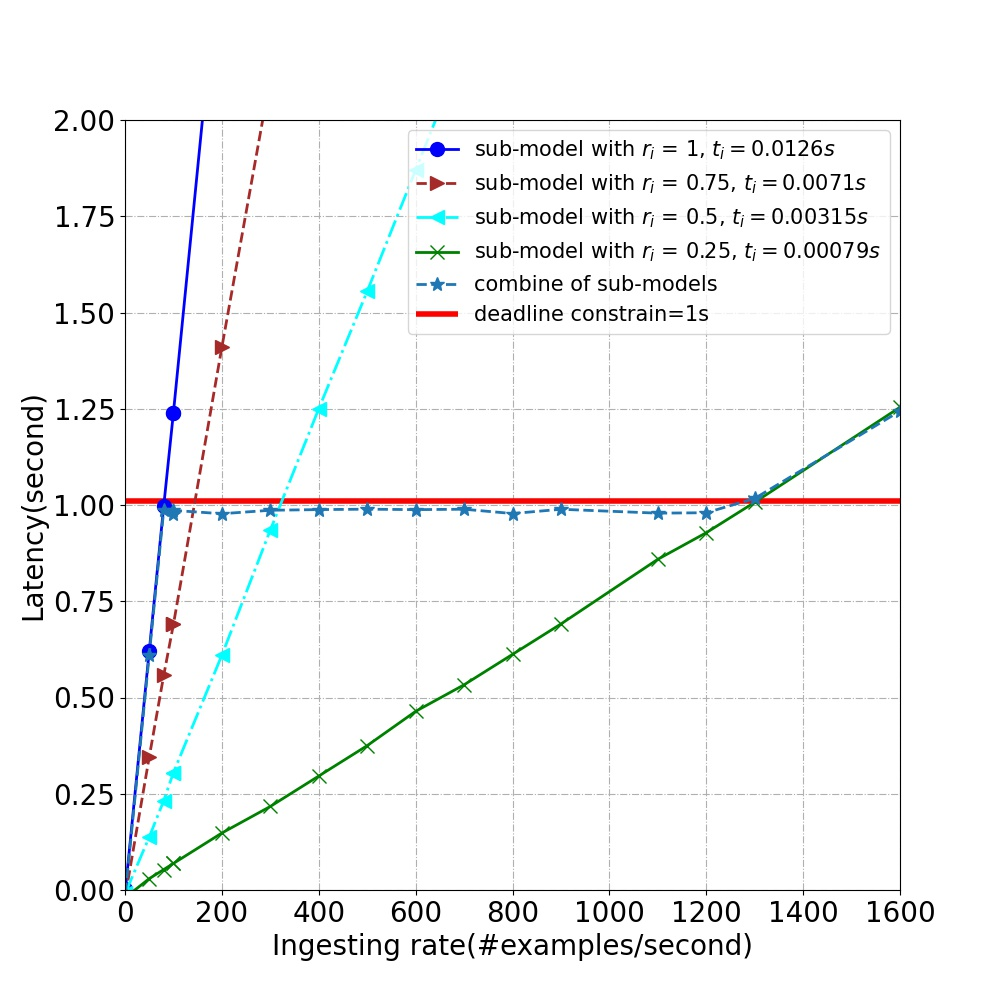
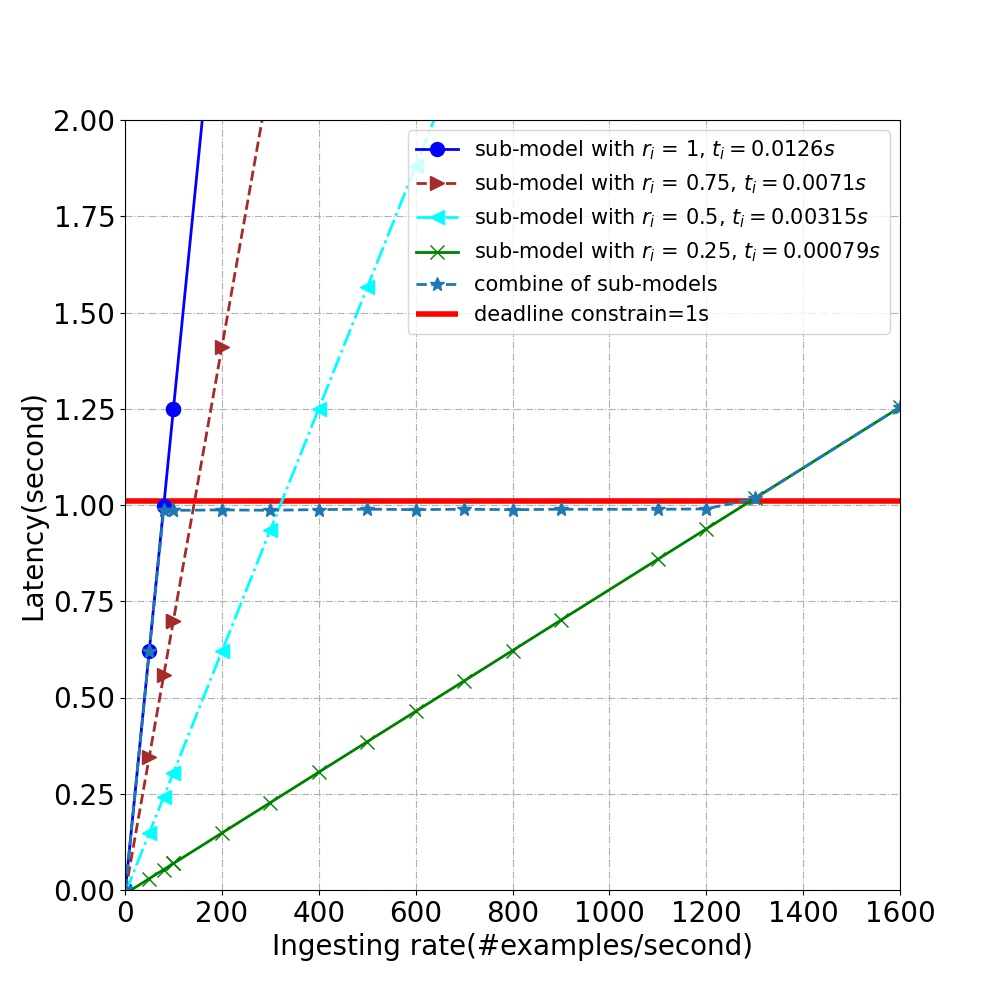
update col num

diff --git a/experiments/Speed.py b/experiments/Speed.py
@@ -1,6 +1,10 @@
 
+
+
 import matplotlib.pyplot as plt
-import numpy
+from matplotlib.patches import Polygon
+import matplotlib.pyplot as plt
+import numpy as np
 
 
 def drawBasic(tlist, x, slicerate):
@@ -10,55 +14,82 @@ def drawBasic(tlist, x, slicerate):
      pots = []
 
      for k in range(len(tlist)):
-          interval0 = [1/tlist[k] for r in x]
-          y1 = interval0
+          interval0 = [i if (i < 1/tlist[k]) else 0 for i in x]
+          interval1 = [1 if (i > 1/tlist[k]) else 0 for i in x]
+          y1 = numpy.array(interval0) + (1/tlist[k]) * numpy.array(interval1)
           y.append(y1)
           label.append('sub-model with $r_i$ = ' + str(slicerate[k]) + ", $t_i=$" + str(tlist[k]) + "$s$")
-
-          tmp = []
-          for x_ in x:
-               if x_ < 1/tlist[k]:
-                    y_ = 1/tlist[k]
-               else:
-                    y_ =(1/tlist[k])*(1/tlist[k])/x_
-               tmp.append([x_, y_])
-          pots.append(tmp)
+          if k==0:
+               tmp = []
+               for x_ in x[k:]:
+                    if x_ < 1/tlist[k]:
+                         y_= x_
+                    else:
+                         y_ = 1/tlist[k]
+                    tmp.append([x_, y_])
+               pots.append(tmp)
+          if k==1:
+               tmp = []
+               for x_ in x[k:]:
+                    if x_ < 1/tlist[k]:
+                         y_= x_
+                    else:
+                         y_ = 1/tlist[k]
+                    tmp.append([x_, y_])
+               pots.append(tmp)
+          if k>1:
+               tmp = []
+               for x_ in x[k:]:
+                    if x_ < 1/tlist[k]:
+                         y_= x_
+                    else:
+                         y_ = 1/tlist[k]
+                    tmp.append([x_, y_])
+               pots.append(tmp)
 
      return y, label, pots
 
 
-# x_5s = [1, 50, 80, 100, 200, 300, 400, 540, 800, 910, 1020, 1282, 1342, 1352, 1362, 1372, 1382, 1392, 1402, 1412, 1422, 1442, 1472, 1502, 1512, 1522, 1532, 1542, 1552, 1572]
-x = [1, 50, 80, 100, 100, 200, 300, 400, 500, 600, 700, 800, 900, 1000, 1100, 1200, 1400, 1500, 1600, 1700, 1800, 1900, 2000, 2100, 2400, 2500, 2600, 2700, 2800, 3000, 3200, 3500, 3600, 3700, 3800, 3900, 4000, 4100, 4300, 4700, 5100, 6000]
-
-
+import numpy
+x = numpy.array([0, 1, 50, 80, 100, 200, 300, 400, 540, 800,  910, 1020, 1282, 1500])
+print(x)
 y, label, pots = drawBasic([0.0126, 0.0071, 0.00315, 0.00084], x, [1, 0.75, 0.5, 0.25])
-print(y)
 
-fig=plt.figure(figsize=(10,10))
+
+fig=plt.figure(figsize=(10, 10))
 ax=fig.add_subplot(111)
-ax.axis([0, 5500, 0, 1650])
+ax.axis([0, 1550, 0, 1400])
 
 line_sym = ["-", "--", "-.", "-"]
 pot_sym = ["o", ">", "<", "x"]
 colors = ['blue', 'brown', 'aqua', 'green']
-
 for i in range(len(y)):
-     ax.plot(x, y[i],line_sym[i], marker=pot_sym[i], ms=10, label=label[i], linewidth=2, color=colors[i])
+     ax.plot(x, y[i], line_sym[i], marker=pot_sym[i], ms=6, label=label[i], linewidth=2,  color=colors[i])
 
-y_sche = [79.36507936507937, 79.36507936507937, 79.36507936507937, 79.36507936507937, 79.36507936507937, 79.36507936507937, 79.36507936507935, 100.12515644555694, 125.14078338130396, 150.02625459455405, 175.07440662281468, 200.1350911865509, 225.2083176938668, 250.04688379071075, 275.1203651597574, 300.20639189442744, 350.103280467738, 375.03187770960534, 400.18108193957767, 425.1030874987185, 450.01462547532793, 475.1900760304122, 500.0950180534302, 525.2928507643011, 600.3031530923116, 625.1844294066749, 650.0552546966492, 675.3055757730373, 700.1697911743597, 750.3001200480192, 800.4462487836969, 875.442098259621, 900.265578345612, 925.0786316836931, 950.4300696064969, 975.2364948500011, 1000.0325010562843, 1025.4101640656263, 1075.5996468030926, 1175.346727284549, 1190.4761904761904, 1190.4761904761904]
-ax.plot(x, y_sche, "--", marker='*', ms=10, label="combine of sub-models", linewidth=2)
+ax.plot(x, y[len(y)-1], label="combination of sub-models", linewidth=2)
+
+
+
+for k in range(len(pots)):
+     ele = pots[k]
+     for i in range(len(ele)):
+          xc1, yc1 = ele[i]
+          ax.plot(xc1, yc1, line_sym[k], marker=pot_sym[k], ms=10, color=colors[k])
+
+
+# for j in range(len(pots)):
+#      xc1, yc1 = pots[j]
+#      ax.scatter(xc1, yc1, s=50, facecolors='none', edgecolors='r')
 
 
 plt.legend(fontsize=15)
 plt.xticks(fontsize=20)
 plt.yticks(fontsize=20)
 ax.set_xlabel('Ingesting rate(#examples/second)', fontsize=20)
-ax.set_ylabel('Images being processed/second', fontsize=20)
+ax.set_ylabel('Single model maximum capacity', fontsize=20)
 plt.grid(linestyle='-.')
-plt.savefig('./images_second.jpg')
+plt.savefig('./capacity.jpg')
 plt.show()
-# 每妙发送500条
-
 
 
 

diff --git a/experiments/throughput_plot.py b/experiments/throughput_plot.py
@@ -1,8 +1,16 @@
 
+
+
+
+
+
+
+
+
+
+
 import matplotlib.pyplot as plt
-from matplotlib.patches import Polygon
-import matplotlib.pyplot as plt
-import numpy as np
+import numpy
 
 
 def drawBasic(tlist, x, slicerate):
@@ -12,87 +20,51 @@ def drawBasic(tlist, x, slicerate):
      pots = []
 
      for k in range(len(tlist)):
-          interval0 = [i if (i < 1/tlist[k]) else 0 for i in x]
-          interval1 = [1 if (i > 1/tlist[k]) else 0 for i in x]
-          y1 = numpy.array(interval0) + (1/tlist[k]) * numpy.array(interval1)
+          interval0 = [1/tlist[k] for r in x]
+          y1 = interval0
           y.append(y1)
           label.append('sub-model with $r_i$ = ' + str(slicerate[k]) + ", $t_i=$" + str(tlist[k]) + "$s$")
-          if k==0:
-               tmp = []
-               for x_ in x[k:]:
-                    if x_ < 1/tlist[k]:
-                         y_= x_
-                    else:
-                         y_ = 1/tlist[k]
-                    tmp.append([x_, y_])
-               pots.append(tmp)
-          if k==1:
-               tmp = []
-               for x_ in x[k:]:
-                    if x_ < 1/tlist[k]:
-                         y_= x_
-                    else:
-                         y_ = 1/tlist[k]
-                    tmp.append([x_, y_])
-               pots.append(tmp)
-          if k>1:
-               tmp = []
-               for x_ in x[k:]:
-                    if x_ < 1/tlist[k]:
-                         y_= x_
-                    else:
-                         y_ = 1/tlist[k]
-                    tmp.append([x_, y_])
-               pots.append(tmp)
+
+          tmp = []
+          for x_ in x:
+               if x_ < 1/tlist[k]:
+                    y_ = 1/tlist[k]
+               else:
+                    y_ =(1/tlist[k])*(1/tlist[k])/x_
+               tmp.append([x_, y_])
+          pots.append(tmp)
 
      return y, label, pots
 
 
-import numpy
-x = numpy.array([0, 1, 50, 80, 100, 200, 300, 400, 540, 800,  910, 1020, 1282, 1500])
-print(x)
+# x_5s = [1, 50, 80, 100, 200, 300, 400, 540, 800, 910, 1020, 1282, 1342, 1352, 1362, 1372, 1382, 1392, 1402, 1412, 1422, 1442, 1472, 1502, 1512, 1522, 1532, 1542, 1552, 1572]
+x = [1, 50, 80, 100, 100, 200, 300, 400, 500, 600, 700, 800, 900, 1000, 1100, 1200, 1400, 1500, 1600, 1700, 1800, 1900, 2000, 2100, 2400, 2500, 2600, 2700, 2800, 3000, 3200, 3500, 3600, 3700, 3800, 3900, 4000, 4100, 4300, 4700, 5100, 6000]
+
+
 y, label, pots = drawBasic([0.0126, 0.0071, 0.00315, 0.00084], x, [1, 0.75, 0.5, 0.25])
+print(y)
 
-
-fig=plt.figure(figsize=(10, 10))
+fig=plt.figure(figsize=(10,10))
 ax=fig.add_subplot(111)
-ax.axis([0, 1550, 0, 1400])
+ax.axis([0, 5500, 0, 1650])
 
 line_sym = ["-", "--", "-.", "-"]
 pot_sym = ["o", ">", "<", "x"]
 colors = ['blue', 'brown', 'aqua', 'green']
+
 for i in range(len(y)):
-     ax.plot(x, y[i], line_sym[i], marker=pot_sym[i], ms=6, label=label[i], linewidth=2,  color=colors[i])
+     ax.plot(x, y[i],line_sym[i], marker=pot_sym[i], ms=10, label=label[i], linewidth=2, color=colors[i])
 
-ax.plot(x, y[len(y)-1], label="combine of sub-models", linewidth=2)
-
-
-
-for k in range(len(pots)):
-     ele = pots[k]
-     for i in range(len(ele)):
-          xc1, yc1 = ele[i]
-          ax.plot(xc1, yc1, line_sym[k], marker=pot_sym[k], ms=10, color=colors[k])
-
-
-# for j in range(len(pots)):
-#      xc1, yc1 = pots[j]
-#      ax.scatter(xc1, yc1, s=50, facecolors='none', edgecolors='r')
+y_sche = [79.36507936507937, 79.36507936507937, 79.36507936507937, 79.36507936507937, 79.36507936507937, 79.36507936507937, 79.36507936507935, 100.12515644555694, 125.14078338130396, 150.02625459455405, 175.07440662281468, 200.1350911865509, 225.2083176938668, 250.04688379071075, 275.1203651597574, 300.20639189442744, 350.103280467738, 375.03187770960534, 400.18108193957767, 425.1030874987185, 450.01462547532793, 475.1900760304122, 500.0950180534302, 525.2928507643011, 600.3031530923116, 625.1844294066749, 650.0552546966492, 675.3055757730373, 700.1697911743597, 750.3001200480192, 800.4462487836969, 875.442098259621, 900.265578345612, 925.0786316836931, 950.4300696064969, 975.2364948500011, 1000.0325010562843, 1025.4101640656263, 1075.5996468030926, 1175.346727284549, 1190.4761904761904, 1190.4761904761904]
+ax.plot(x, y_sche, "--", marker='*', ms=10, label="combination of sub-models", linewidth=2)
 
 
 plt.legend(fontsize=15)
 plt.xticks(fontsize=20)
 plt.yticks(fontsize=20)
 ax.set_xlabel('Ingesting rate(#examples/second)', fontsize=20)
-ax.set_ylabel('Throughput', fontsize=20)
+ax.set_ylabel('Throughput(examples processed/second)', fontsize=20)
 plt.grid(linestyle='-.')
 plt.savefig('./throughput.jpg')
 plt.show()
-
-
-
-
-
-
-
-
+# 每妙发送500条

diff --git a/experiments/latency.py b/experiments/latency.py
@@ -64,13 +64,13 @@ line_sym = ["-", "--", "-.", "-"]
 pot_sym = ["o", ">", "<", "x"]
 colors = ['blue', 'brown', 'aqua', 'green']
 for i in range(len(y)):
-     y_i = [ele-random.randrange(1,3)*0.01 for ele in y[i]]
+     y_i = [ele-0.01 for ele in y[i]]
      ax.plot(x, y_i, line_sym[i], marker=pot_sym[i], ms=10, label=label[i], linewidth=2,  color=colors[i])
 
 
 ysch_ = [0.0126, 0.63, 0.997, 0.996, 0.996, 0.99735, 0.9963500000000001, 0.99804, 0.99916, 0.99792, 0.99904, 0.9978, 0.99892, 0.9988, 0.99992, 1.027, 1.264, 1.343, 1.501, 1.6589999999999998, 1.817, 1.975, 2.0540000000000003, 2.133, 2.2119999999999997, 2.291, 2.37, 2.449, 2.528, 2.607, 2.686, 3.0810000000000004, 3.16]
 
-ysh = [ele-random.randrange(1,3)*0.01 if (ele<1200) else ele for ele in ysch_]
+ysh = [ele-0.01 if (ele<1200) else ele for ele in ysch_]
 
 ax.plot(x, ysh,"--", marker='*', ms=10, label="combine of sub-models", linewidth=2)
 

diff --git a/experiments/effitive_accuracy_plot.py b/experiments/effitive_accuracy_plot.py
@@ -79,7 +79,7 @@ for k in range(len(pots)):
 
 
 ySch = [0.7609, 0.7609, 0.7609, 0.7603125000000001, 0.7496200000000001, 0.7232225, 0.7120483333333334, 0.6906165, 0.6704792592592592, 0.6517547499999999, 0.6470690109890109, 0.6433939215686274, 0.5932363494539781, 0.5070193333333333]
-ax.plot(x, ySch, "--", marker='*', ms=12, label="combine of sub-models", linewidth=2)
+ax.plot(x, ySch, "--", marker='*', ms=12, label="combination of sub-models", linewidth=2)
 
 # for j in range(len(ySch)):
 #      ax.scatter(x[j], ySch[j], s=50, facecolors='none', edgecolors='r')
